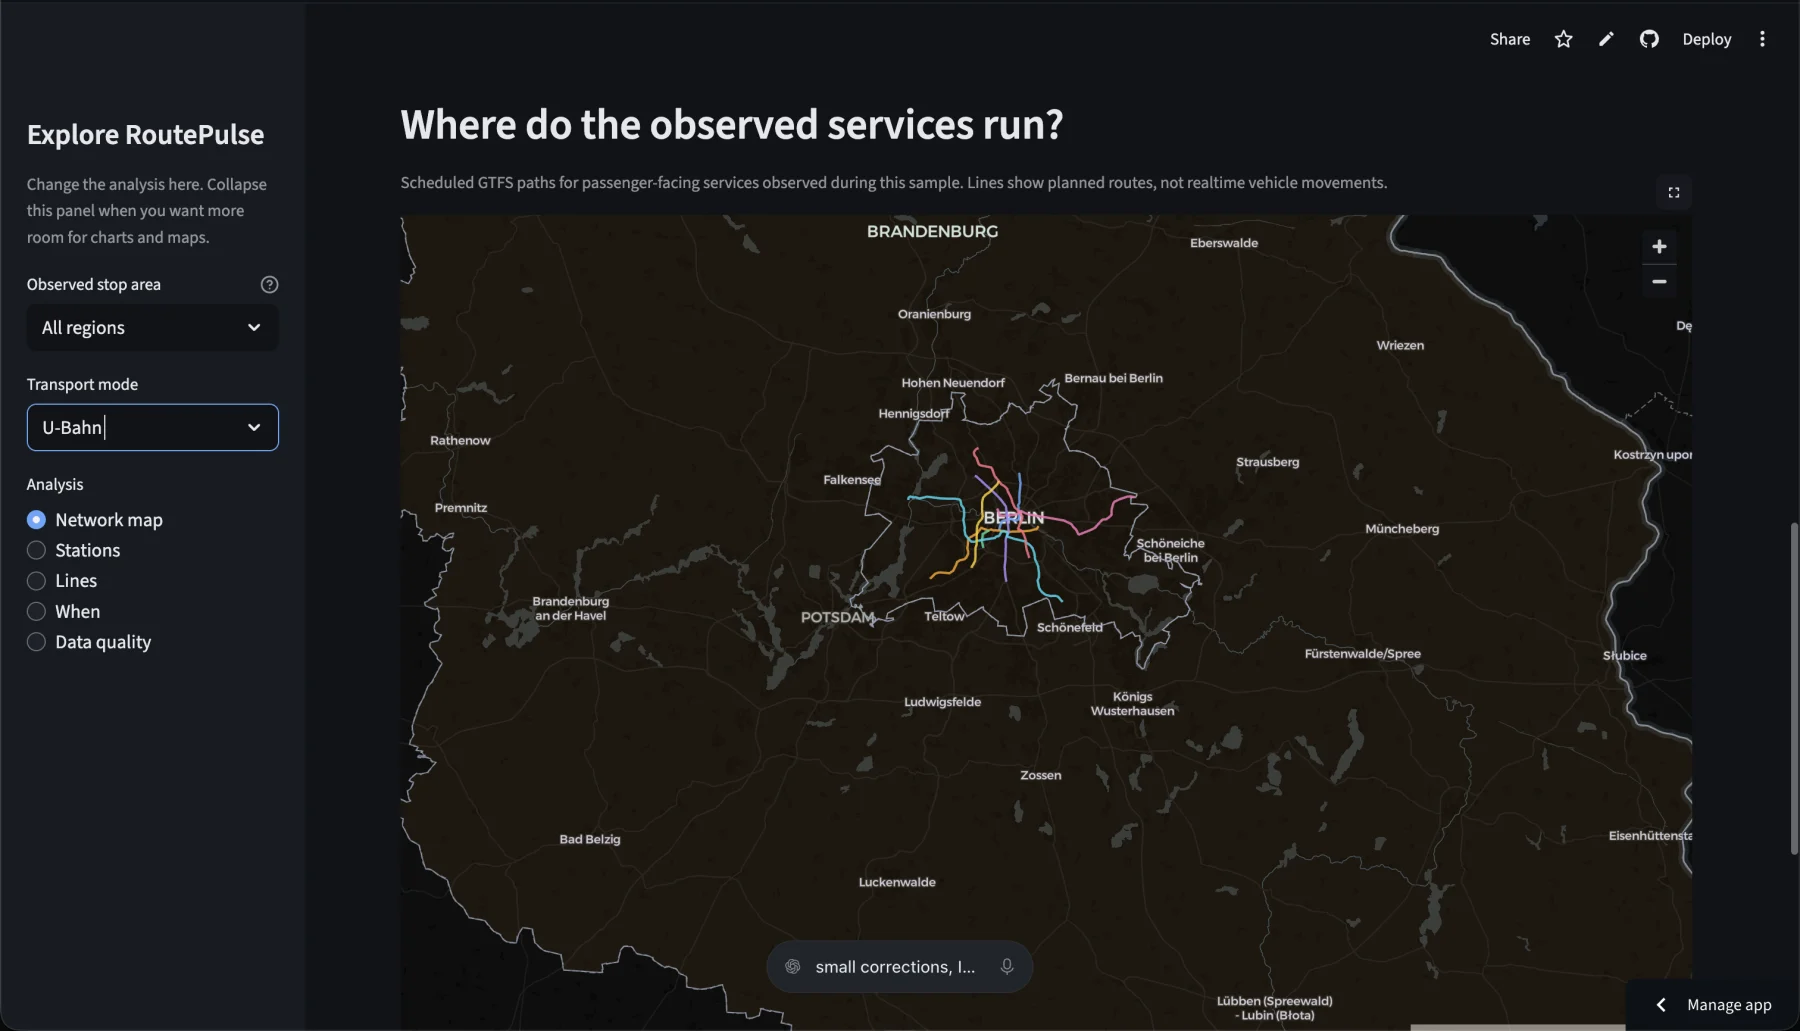
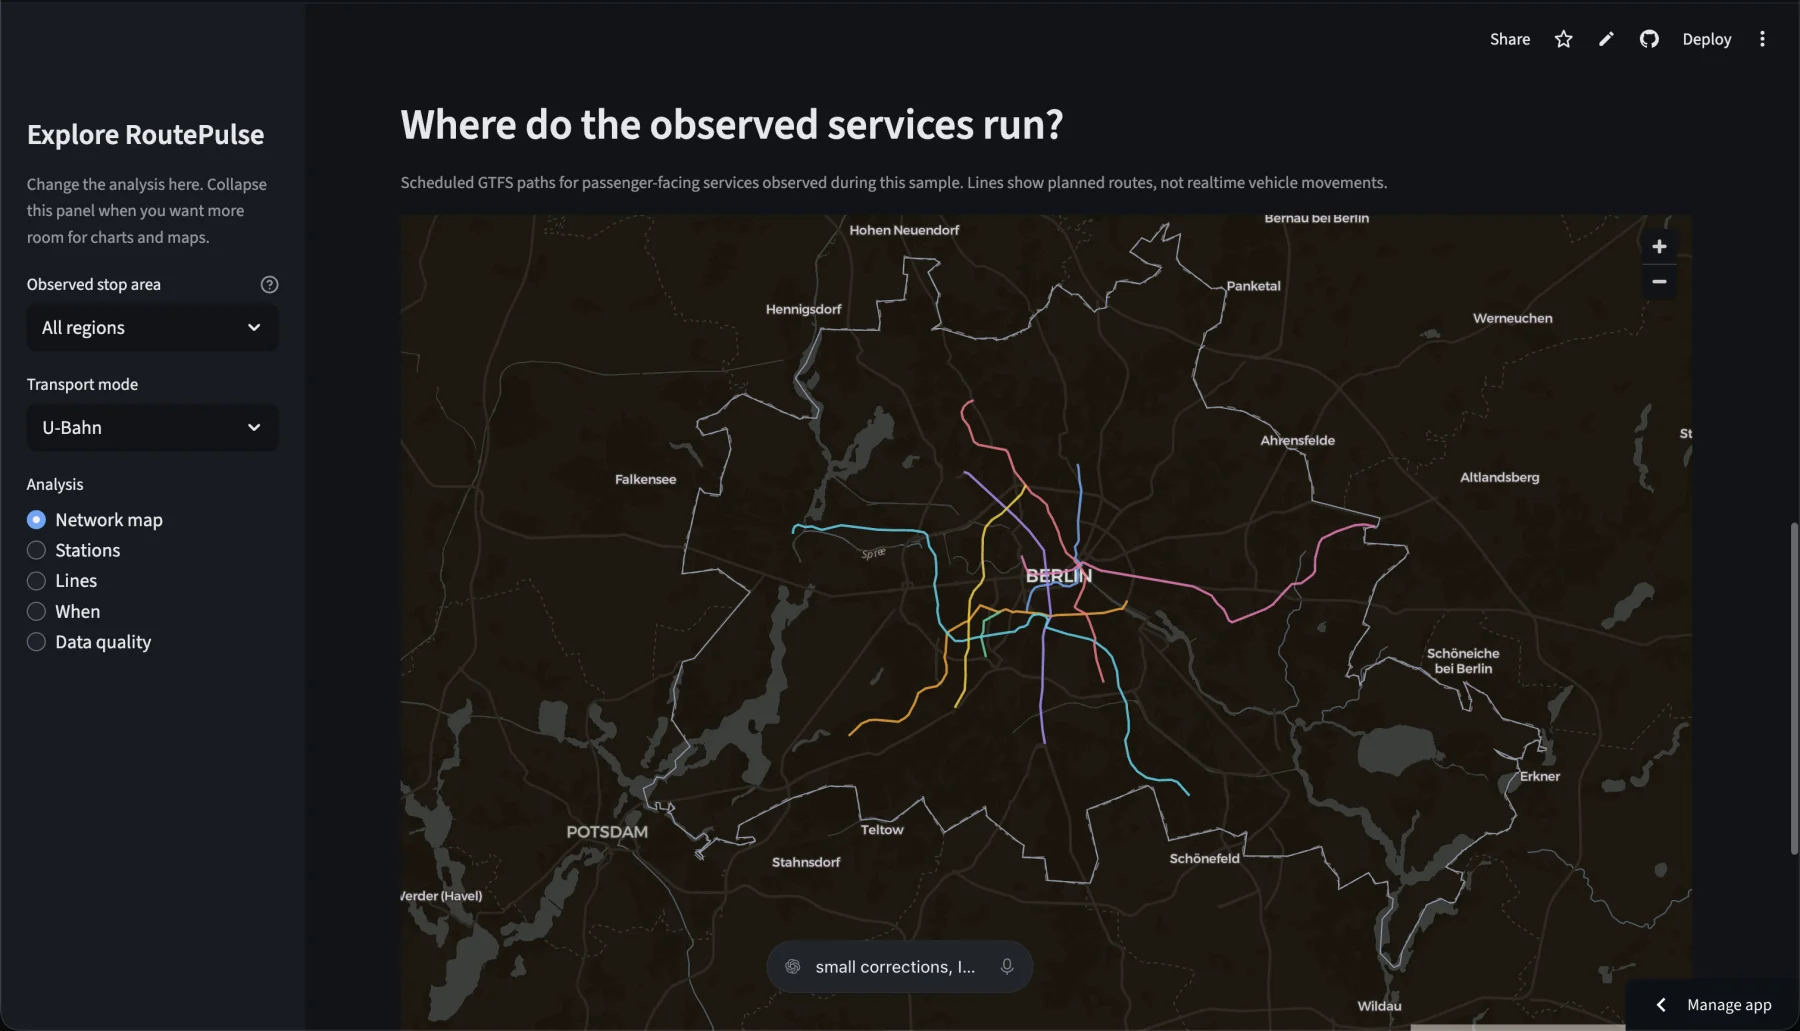
Finalize RoutePulse portfolio feature

diff --git a/app/projects/routepulse-mobility-analytics/page.tsx b/app/projects/routepulse-mobility-analytics/page.tsx
@@ -147,11 +147,11 @@ export default function RoutePulseCaseStudy() {
 
     <section className="case-section rp-gallery-section rp-mode-section"><p className="case-kicker">THE NETWORK BY TRANSPORT MODE</p><h2>The separate maps reveal routes that disappear inside the All modes view</h2><p className="rp-section-intro">The combined map is useful for understanding the full scale of the network, but the large number of bus routes covers many of the smaller rail and tram patterns. These maps use the same All regions scope and separate the modes so their different geographic roles are easier to see. They still show scheduled GTFS paths, not live vehicle movements.</p><div className="rp-image-grid rp-mode-grid">
       <figure className="routepulse-screen"><ZoomableImage src="/projects/routepulse/map-bus.webp" alt="RoutePulse All regions bus map showing dense bus coverage across Berlin and Brandenburg" /><figcaption><b>Bus.</b> The bus network has the broadest and densest local coverage. It fills gaps between rail corridors and explains why yellow routes dominate the combined map.</figcaption></figure>
-      <figure className="routepulse-screen"><ZoomableImage src="/projects/routepulse/map-ubahn.webp" alt="RoutePulse All regions U-Bahn map showing the Berlin underground network" /><figcaption><b>U-Bahn.</b> The underground network is concentrated in Berlin. Separating it from buses makes its compact city-focused structure and individual lines visible.</figcaption></figure>
+      <figure className="routepulse-screen"><ZoomableImage src="/projects/routepulse/map-ubahn.webp" alt="RoutePulse All regions U-Bahn map showing the Berlin underground network" /><figcaption><b>U-Bahn.</b> The underground network is concentrated in Berlin. This closer view makes its compact city-focused structure and individual lines easier to see.</figcaption></figure>
       <figure className="routepulse-screen"><ZoomableImage src="/projects/routepulse/map-sbahn.webp" alt="RoutePulse All regions S-Bahn map showing radial routes from Berlin into surrounding towns" /><figcaption><b>S-Bahn.</b> The S-Bahn forms a radial metropolitan network. It connects central Berlin with places such as Potsdam, Oranienburg, Bernau, Strausberg and the south-eastern suburbs.</figcaption></figure>
       <figure className="routepulse-screen"><ZoomableImage src="/projects/routepulse/map-tram.webp" alt="RoutePulse All regions tram map showing separate urban tram networks in Berlin and Brandenburg" /><figcaption><b>Tram.</b> Tram coverage is not one continuous regional system. The map reveals separate clusters in Berlin, Potsdam, Brandenburg an der Havel and other Brandenburg towns.</figcaption></figure>
       <figure className="routepulse-screen rp-grid-wide"><ZoomableImage src="/projects/routepulse/map-regional-rail.webp" alt="RoutePulse All regions regional rail map showing long corridors across and beyond Berlin and Brandenburg" /><figcaption><b>Regional rail.</b> These are the longest corridors. They cross Berlin and Brandenburg and continue outside the study area because passenger services do not stop at the state boundary.</figcaption></figure>
-    </div></section>
+    </div><p className="routepulse-explainer"><b>Explore the maps yourself:</b> these screenshots document the project, but the <a href={liveApp} target="_blank" rel="noreferrer">live RoutePulse dashboard</a> is interactive. Choose an observed stop area and transport mode, then switch between the network map, stations, lines, time and data-quality views.</p></section>
 
     <section className="case-section routepulse-sql-guide"><p className="case-kicker">THE SNOWFLAKE WORKSHEETS</p><h2>What each SQL file does, in the order I ran it</h2><p className="rp-section-intro">The repository contains 15 numbered SQL worksheets. The numbering matters: a later model depends on objects created and checked earlier. I did not put all the SQL into one giant script because setup, loading, modelling, permissions and validation are different responsibilities.</p><ol className="rp-worksheet-list">{worksheets.map(([name, description]) => <li key={name}><code>{name}</code><p>{description}</p></li>)}</ol></section>
 

diff --git a/app/page.tsx b/app/page.tsx
@@ -11,7 +11,7 @@ export default function Home() {
 
     <section className="home-section"><div className="section-title"><h2>Education</h2><a className="view-button" href="/education">View All Degrees ↗</a></div><ResumeCard item={degrees[0]} expanded detailLabel="Relevant Courses"/></section>
     <section className="home-section"><div className="section-title"><h2>Working Experience</h2><a className="view-button" href="/experience">View All Experience ↗</a></div><ResumeCard item={jobs[0]} expanded/></section>
-    <section className="home-section"><div className="section-title"><h2>Recent Projects</h2><a className="view-button" href="/projects">View All Projects ↗</a></div><div className="project-grid home-projects">{[projects[2], projects[0]].map(item => <ProjectCard item={item} key={item.title}/>)}</div></section>
+    <section className="home-section"><div className="section-title"><h2>Latest Project</h2><a className="view-button" href="/projects">View All Projects ↗</a></div><div className="project-grid home-projects">{[projects[0]].map(item => <ProjectCard item={item} key={item.title}/>)}</div></section>
     <section className="home-section"><div className="section-title"><h2>Trainings & Certifications</h2><a className="view-button" href="/trainings">View All Trainings ↗</a></div><div className="stack"><ResumeCard item={{title:"Deep Learning Specialization",org:"DeepLearning.AI · Coursera",place:"Online",date:"Feb 2026",icon:"DL",logo:"/brands/deeplearning-ai.png",copy:"A five-course specialization covering neural networks, CNNs, sequence models, LSTMs, Transformers, regularization, optimization, and practical deep-learning applications.",tools:"Python · TensorFlow · Deep Learning",certificate:"https://coursera.org/verify/specialization/FJ18WDE90O6F"}}/></div></section>
   </main><Footer/></>;
 }
